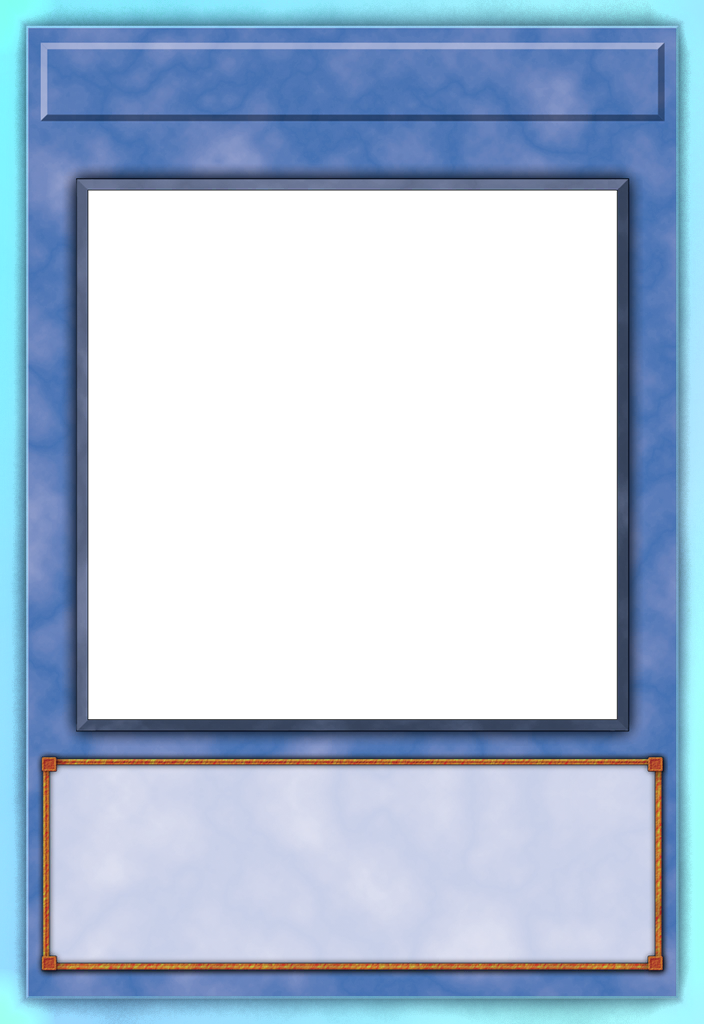
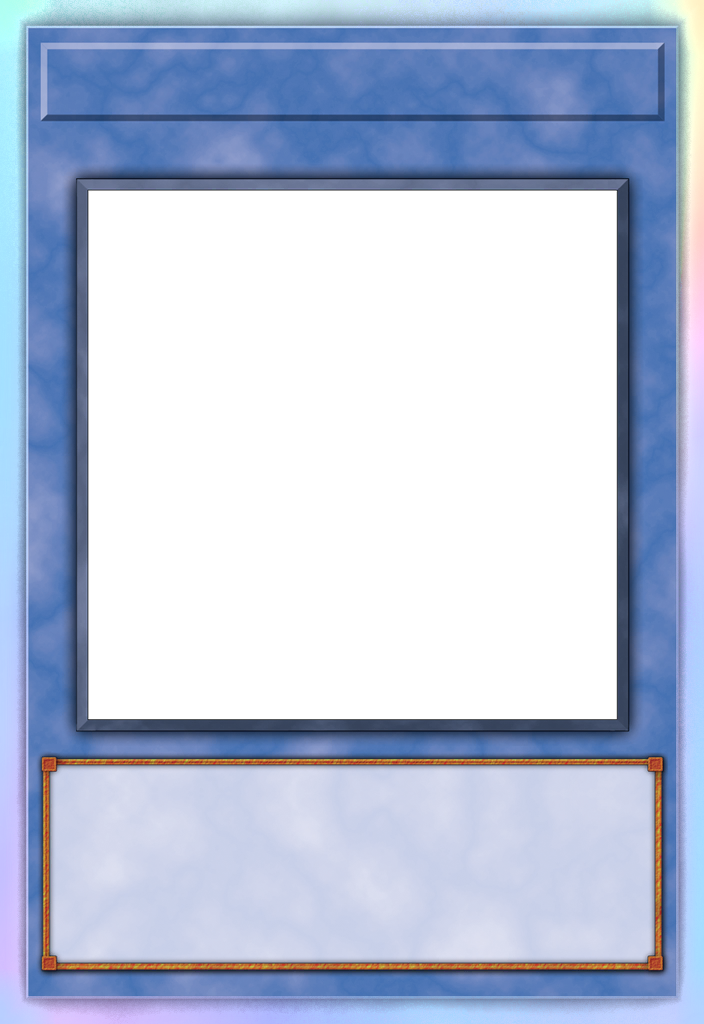
Unify all OF Gradient types to Effect intensity recipe.
Share Effect ReplaceBoost/ShaftBoost/CornerBoost/ShimmerAmount and S/V stop slots; only hue families differ per type. Effect PNG unchanged.

Changed region(s): [[0.0, 0.0, 1.0, 1.0]]

diff --git a/src/Floowan.Core/Imaging/OfGradientBorderComposer.cs b/src/Floowan.Core/Imaging/OfGradientBorderComposer.cs
@@ -160,7 +160,7 @@ public static class OfGradientBorderComposer
     /// <param name="ReplaceBoost">Scales margin replacement.</param>
     /// <param name="ShaftBoost">Emphasize L/R chromatic shafts.</param>
     /// <param name="CornerBoost">Emphasize corner chromatic leaks.</param>
-    /// <param name="ShimmerAmount">How hard perimeter angle hues mix onto the rim (Spell high).</param>
+    /// <param name="ShimmerAmount">How hard perimeter angle hues mix onto the rim.</param>
     private readonly record struct BorderPalette(
         Rgba32 Mid,
         HueStop[] Stops,
@@ -171,186 +171,90 @@ public static class OfGradientBorderComposer
         float CornerBoost,
         float ShimmerAmount);
 
+    // Effect OF Gradient is the reference recipe (user: "perfect"). All other types
+    // share these intensity knobs; only hue-family stops differ.
+    private const float EffectReplaceBoost = 1.15f;
+    private const float EffectShaftBoost = 1.25f;
+    private const float EffectCornerBoost = 1.10f;
+    private const float EffectShimmerAmount = 0.88f;
+
+    /// <summary>
+    /// Effect-perfect S/V slots (7 stops). Types only swap hue degrees.
+    /// </summary>
+    private static HueStop[] EffectStyleStops(float h0, float h1, float h2, float h3, float h4, float h5, float h6) =>
+    [
+        new(h0, 0.28f, 0.90f),
+        new(h1, 0.38f, 0.95f),
+        new(h2, 0.35f, 0.92f),
+        new(h3, 0.28f, 0.93f),
+        new(h4, 0.25f, 0.90f),
+        new(h5, 0.42f, 0.96f),
+        new(h6, 0.28f, 0.92f),
+    ];
+
+    private static BorderPalette EffectRecipe(Rgba32 mid, HueStop[] stops, bool useHoloGrid = false) =>
+        new(
+            Mid: mid,
+            Stops: stops,
+            UseHoloGrid: useHoloGrid,
+            BodyTint: 0f,
+            ReplaceBoost: EffectReplaceBoost,
+            ShaftBoost: EffectShaftBoost,
+            CornerBoost: EffectCornerBoost,
+            ShimmerAmount: EffectShimmerAmount);
+
     private static BorderPalette ResolvePalette(CardFrameStyle baseStyle) => baseStyle switch
     {
-        // Linkage — teal/seafoam base + full rainbow shimmer (hot, luminous stops).
-        CardFrameStyle.Spell => new(
-            Mid: new Rgba32(48, 165, 170, 255),
-            Stops:
-            [
-                new(175f, 0.55f, 0.92f), // cyan-teal hot
-                new(155f, 0.50f, 0.94f), // seafoam
-                new(195f, 0.35f, 0.95f), // soft cyan flash
-                new(280f, 0.30f, 0.90f), // purple shimmer
-                new(330f, 0.35f, 0.93f), // pink
-                new(45f, 0.40f, 0.95f),  // warm yellow
-                new(150f, 0.55f, 0.88f), // green-teal
-                new(185f, 0.40f, 0.94f), // aqua
-            ],
-            UseHoloGrid: true,
-            BodyTint: 0f,
-            ReplaceBoost: 1.12f,
-            ShaftBoost: 0.95f,
-            CornerBoost: 1.05f,
-            ShimmerAmount: 0.95f),
+        // Canonical Effect / Pendulum Effect — do not change (user-approved).
+        CardFrameStyle.Effect or CardFrameStyle.PendulumEffect => EffectRecipe(
+            mid: new Rgba32(95, 100, 130, 255),
+            stops: EffectStyleStops(210f, 190f, 175f, 40f, 220f, 185f, 320f)),
 
-        // Magician of Black Chaos — luminous cyan/teal corners (colored, not white).
-        CardFrameStyle.Ritual or CardFrameStyle.PendulumRitual => new(
-            Mid: new Rgba32(40, 70, 105, 255),
-            Stops:
-            [
-                new(195f, 0.40f, 0.82f), // blue edge (brighter midtones)
-                new(185f, 0.55f, 0.96f), // bright cyan hot
-                new(170f, 0.50f, 0.93f), // teal
-                new(210f, 0.30f, 0.88f), // periwinkle
-                new(160f, 0.40f, 0.94f), // seafoam corner
-                new(200f, 0.45f, 0.95f), // electric cyan
-            ],
-            UseHoloGrid: false,
-            BodyTint: 0f,
-            ReplaceBoost: 1.15f,
-            ShaftBoost: 0.80f,
-            CornerBoost: 1.40f,
-            ShimmerAmount: 0.85f),
+        // Spell — teal/green family, same luminosity recipe (+ holo grid like Linkage foil).
+        CardFrameStyle.Spell => EffectRecipe(
+            mid: new Rgba32(70, 120, 125, 255),
+            stops: EffectStyleStops(165f, 150f, 175f, 45f, 185f, 155f, 320f),
+            useHoloGrid: true),
 
-        // Chaos Soldier / Effect — luminous cyan shafts + prismatic flashes.
-        CardFrameStyle.Effect or CardFrameStyle.PendulumEffect => new(
-            Mid: new Rgba32(95, 100, 130, 255),
-            Stops:
-            [
-                new(210f, 0.28f, 0.90f), // pale blue
-                new(190f, 0.38f, 0.95f), // cyan hot
-                new(175f, 0.35f, 0.92f), // teal-blue
-                new(40f, 0.28f, 0.93f),  // warm gold leak
-                new(220f, 0.25f, 0.90f), // periwinkle
-                new(185f, 0.42f, 0.96f), // bright cyan shaft flash
-                new(320f, 0.28f, 0.92f), // pink prismatic
-            ],
-            UseHoloGrid: false,
-            BodyTint: 0f,
-            ReplaceBoost: 1.15f,
-            ShaftBoost: 1.25f,
-            CornerBoost: 1.10f,
-            ShimmerAmount: 0.88f),
+        // Ritual — blue/cyan family.
+        CardFrameStyle.Ritual or CardFrameStyle.PendulumRitual => EffectRecipe(
+            mid: new Rgba32(80, 95, 130, 255),
+            stops: EffectStyleStops(215f, 200f, 185f, 40f, 225f, 195f, 310f)),
 
-        CardFrameStyle.Trap or CardFrameStyle.Token or CardFrameStyle.PendulumToken => new(
-            Mid: new Rgba32(120, 55, 130, 255),
-            Stops:
-            [
-                new(310f, 0.45f, 0.90f),
-                new(280f, 0.40f, 0.88f),
-                new(330f, 0.38f, 0.94f),
-                new(200f, 0.28f, 0.90f),
-                new(340f, 0.35f, 0.92f),
-            ],
-            UseHoloGrid: false,
-            BodyTint: 0f,
-            ReplaceBoost: 1.12f,
-            ShaftBoost: 1.00f,
-            CornerBoost: 1.15f,
-            ShimmerAmount: 0.85f),
+        // Trap / Token — magenta/pink family.
+        CardFrameStyle.Trap or CardFrameStyle.Token or CardFrameStyle.PendulumToken => EffectRecipe(
+            mid: new Rgba32(115, 75, 120, 255),
+            stops: EffectStyleStops(310f, 290f, 330f, 40f, 280f, 320f, 200f)),
 
-        CardFrameStyle.Fusion or CardFrameStyle.PendulumFusion => new(
-            Mid: new Rgba32(110, 60, 150, 255),
-            Stops:
-            [
-                new(280f, 0.45f, 0.90f),
-                new(300f, 0.38f, 0.93f),
-                new(260f, 0.35f, 0.88f),
-                new(320f, 0.30f, 0.94f),
-                new(200f, 0.25f, 0.90f),
-            ],
-            UseHoloGrid: false,
-            BodyTint: 0f,
-            ReplaceBoost: 1.12f,
-            ShaftBoost: 1.00f,
-            CornerBoost: 1.20f,
-            ShimmerAmount: 0.82f),
+        // Fusion — violet family.
+        CardFrameStyle.Fusion or CardFrameStyle.PendulumFusion => EffectRecipe(
+            mid: new Rgba32(105, 80, 130, 255),
+            stops: EffectStyleStops(280f, 265f, 295f, 40f, 250f, 290f, 200f)),
 
-        CardFrameStyle.Synchro or CardFrameStyle.PendulumSynchro => new(
-            Mid: new Rgba32(165, 170, 185, 255),
-            Stops:
-            [
-                new(210f, 0.22f, 0.95f),
-                new(45f, 0.18f, 0.96f),
-                new(280f, 0.15f, 0.93f),
-                new(180f, 0.20f, 0.95f),
-                new(0f, 0.12f, 0.96f),
-            ],
-            UseHoloGrid: false,
-            BodyTint: 0f,
-            ReplaceBoost: 1.10f,
-            ShaftBoost: 1.00f,
-            CornerBoost: 1.10f,
-            ShimmerAmount: 0.75f),
+        // Synchro — cool silver / soft multi-hue (same S/V intensity).
+        CardFrameStyle.Synchro or CardFrameStyle.PendulumSynchro => EffectRecipe(
+            mid: new Rgba32(120, 125, 140, 255),
+            stops: EffectStyleStops(210f, 200f, 45f, 280f, 180f, 0f, 220f)),
 
-        CardFrameStyle.Xyz or CardFrameStyle.PendulumXyz => new(
-            Mid: new Rgba32(35, 40, 55, 255),
-            Stops:
-            [
-                new(210f, 0.45f, 0.90f),
-                new(190f, 0.40f, 0.94f),
-                new(260f, 0.30f, 0.88f),
-                new(175f, 0.38f, 0.90f),
-                new(220f, 0.35f, 0.93f),
-            ],
-            UseHoloGrid: true,
-            BodyTint: 0f,
-            ReplaceBoost: 1.15f,
-            ShaftBoost: 1.10f,
-            CornerBoost: 1.20f,
-            ShimmerAmount: 0.82f),
+        // Xyz — deep cyan / blue family.
+        CardFrameStyle.Xyz or CardFrameStyle.PendulumXyz => EffectRecipe(
+            mid: new Rgba32(85, 90, 120, 255),
+            stops: EffectStyleStops(210f, 195f, 180f, 40f, 230f, 185f, 280f)),
 
-        CardFrameStyle.Link => new(
-            Mid: new Rgba32(35, 70, 100, 255),
-            Stops:
-            [
-                new(185f, 0.55f, 0.94f),
-                new(170f, 0.48f, 0.90f),
-                new(200f, 0.40f, 0.93f),
-                new(280f, 0.28f, 0.88f),
-                new(150f, 0.45f, 0.88f),
-                new(45f, 0.25f, 0.92f),
-            ],
-            UseHoloGrid: true,
-            BodyTint: 0f,
-            ReplaceBoost: 1.12f,
-            ShaftBoost: 1.05f,
-            CornerBoost: 1.15f,
-            ShimmerAmount: 0.90f),
+        // Link — cyan tech family (+ holo grid).
+        CardFrameStyle.Link => EffectRecipe(
+            mid: new Rgba32(75, 100, 125, 255),
+            stops: EffectStyleStops(185f, 170f, 200f, 45f, 210f, 155f, 320f),
+            useHoloGrid: true),
 
-        CardFrameStyle.Normal or CardFrameStyle.PendulumNormal => new(
-            Mid: new Rgba32(190, 155, 75, 255),
-            Stops:
-            [
-                new(45f, 0.55f, 0.95f),
-                new(35f, 0.45f, 0.93f),
-                new(55f, 0.35f, 0.96f),
-                new(20f, 0.40f, 0.92f),
-                new(200f, 0.20f, 0.90f),
-            ],
-            UseHoloGrid: false,
-            BodyTint: 0f,
-            ReplaceBoost: 1.10f,
-            ShaftBoost: 1.00f,
-            CornerBoost: 1.10f,
-            ShimmerAmount: 0.80f),
+        // Normal — warm gold family.
+        CardFrameStyle.Normal or CardFrameStyle.PendulumNormal => EffectRecipe(
+            mid: new Rgba32(130, 115, 90, 255),
+            stops: EffectStyleStops(45f, 35f, 55f, 200f, 25f, 50f, 320f)),
 
-        _ => new(
-            Mid: new Rgba32(80, 95, 125, 255),
-            Stops:
-            [
-                new(190f, 0.38f, 0.92f),
-                new(175f, 0.35f, 0.90f),
-                new(210f, 0.30f, 0.90f),
-                new(40f, 0.25f, 0.92f),
-            ],
-            UseHoloGrid: false,
-            BodyTint: 0f,
-            ReplaceBoost: 1.12f,
-            ShaftBoost: 1.10f,
-            CornerBoost: 1.10f,
-            ShimmerAmount: 0.82f),
+        _ => EffectRecipe(
+            mid: new Rgba32(95, 100, 130, 255),
+            stops: EffectStyleStops(210f, 190f, 175f, 40f, 220f, 185f, 320f)),
     };
 
     /// <summary>

diff --git a/tests/Floowan.Core.Tests/OfGradientBorderComposerTests.cs b/tests/Floowan.Core.Tests/OfGradientBorderComposerTests.cs
@@ -152,4 +152,50 @@ public class OfGradientBorderComposerTests
         Assert.True(p.A > OverFrameAutoArtComposer.VisibleAlphaThreshold);
         Assert.NotEqual(OverFrameAutoArtComposer.FoilMaskAlpha, p.A);
     }
+
+    [Fact]
+    public void NonEffectTypes_MatchEffectRimLuminosityIntensity()
+    {
+        Assert.Equal(28, OfGradientBorderComposer.OuterRimPx);
+        Assert.Equal(28, OfGradientBorderComposer.LightShaftPx);
+
+        using var effect = CardFrameTemplates.Load(CardFrameStyle.OfGradientEffect);
+        using var spell = CardFrameTemplates.Load(CardFrameStyle.OfGradientSpell);
+        using var trap = CardFrameTemplates.Load(CardFrameStyle.OfGradientTrap);
+        using var ritual = CardFrameTemplates.Load(CardFrameStyle.OfGradientRitual);
+
+        static double MeanRimV(Image<Rgba32> img)
+        {
+            double sum = 0;
+            var n = 0;
+            for (var y = 0; y < img.Height; y++)
+            for (var x = 0; x < img.Width; x++)
+            {
+                var d = Math.Min(Math.Min(x, img.Width - 1 - x), Math.Min(y, img.Height - 1 - y));
+                if (d >= OfGradientBorderComposer.OuterRimPx)
+                    continue;
+                var p = img[x, y];
+                if (p.A < 200)
+                    continue;
+                sum += Math.Max(p.R, Math.Max(p.G, p.B)) / 255.0;
+                n++;
+            }
+
+            return sum / Math.Max(1, n);
+        }
+
+        var effectV = MeanRimV(effect);
+        foreach (var (name, frame) in new (string, Image<Rgba32>)[]
+                 {
+                     ("Spell", spell),
+                     ("Trap", trap),
+                     ("Ritual", ritual),
+                 })
+        {
+            var v = MeanRimV(frame);
+            Assert.True(
+                v >= effectV - 0.08,
+                $"{name} rim V mean {v:F3} should match Effect intensity ({effectV:F3})");
+        }
+    }
 }
